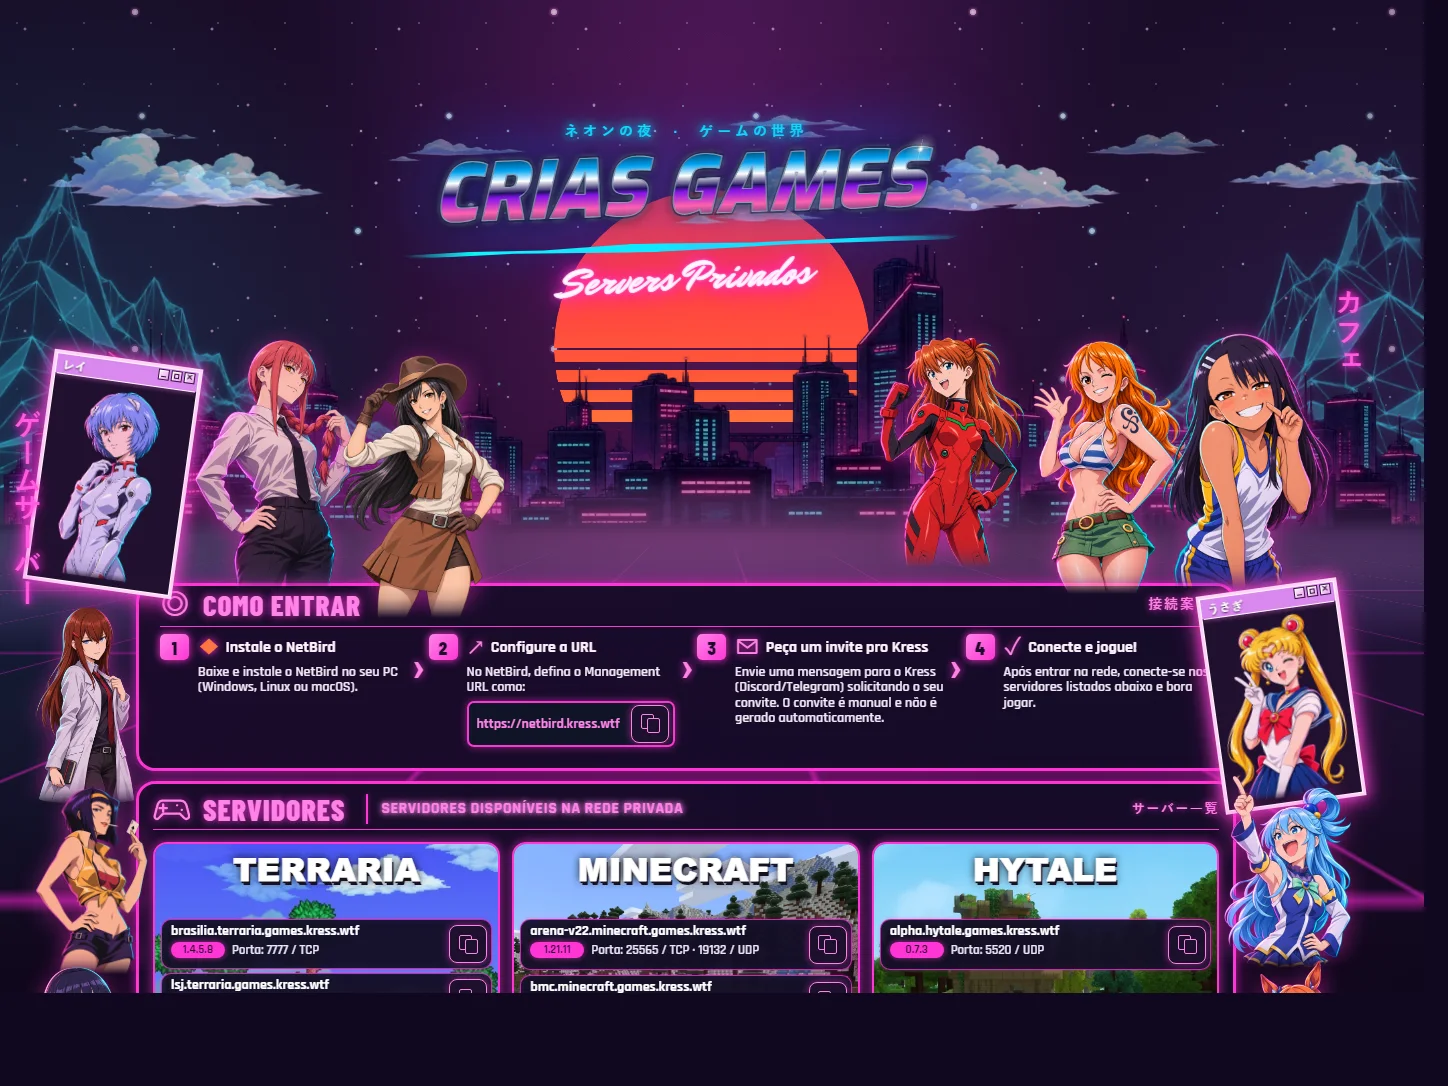
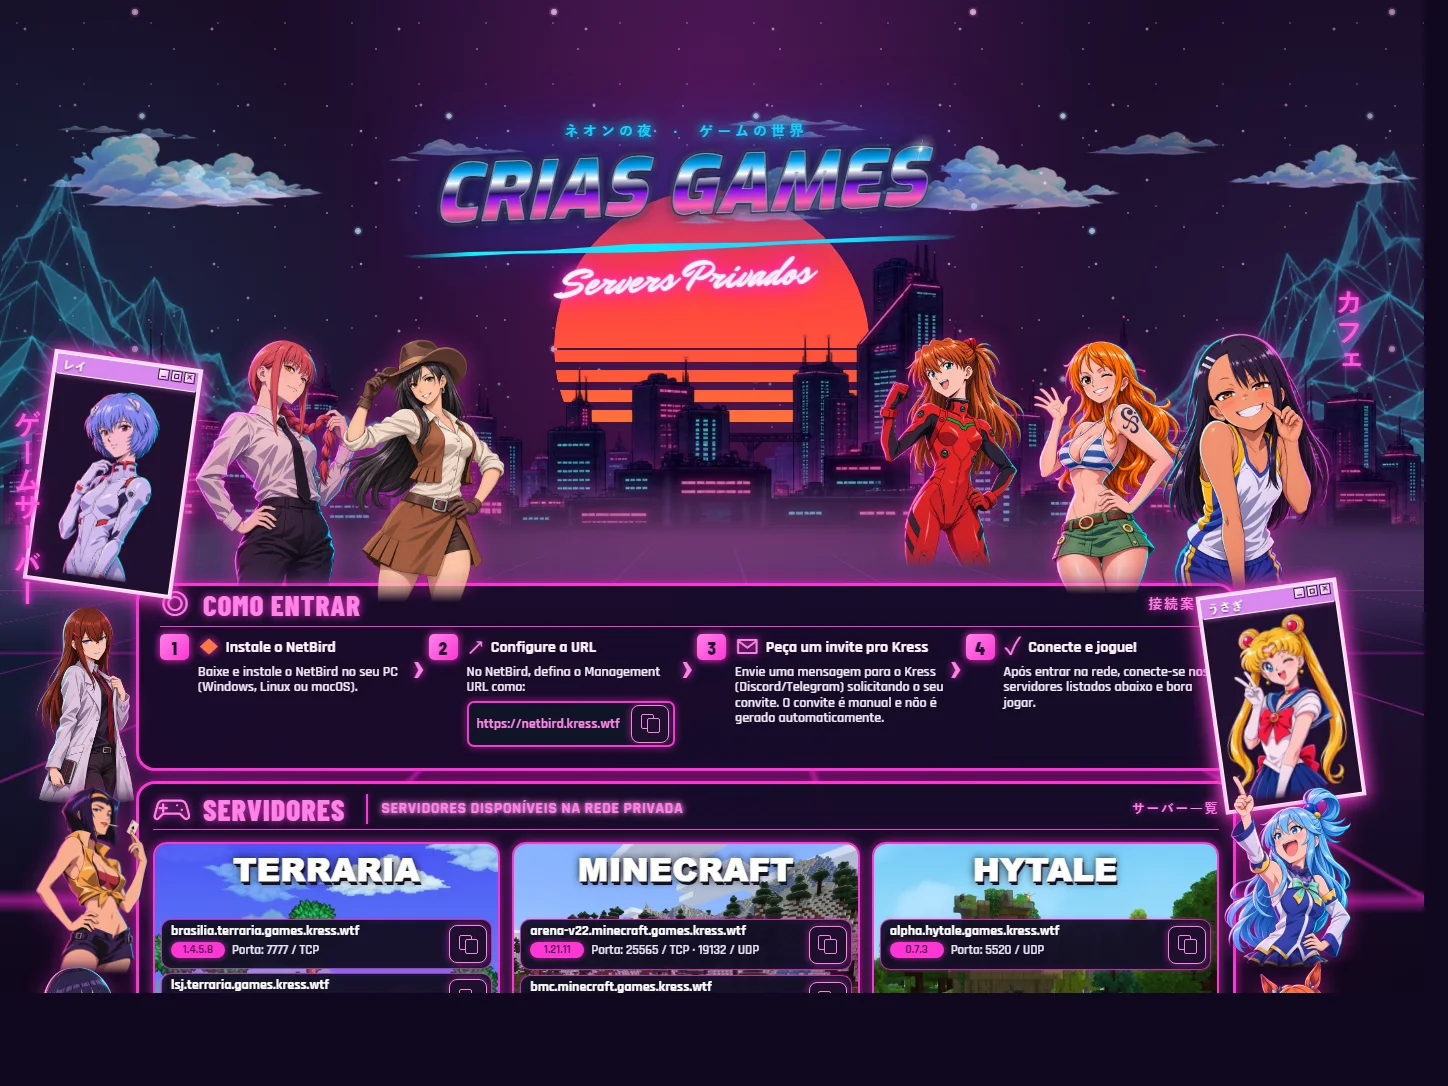
Raise Tifa 16px in desktop collage

Changed region(s): [[0.2175, 0.3039, 0.3729, 0.5773]]

diff --git a/src/assets/site.css b/src/assets/site.css
@@ -147,7 +147,7 @@ html.portrait-press-active,html.portrait-press-active * { user-select:none!impor
 .statue--right img { transform:scaleX(-1); }
 .character--rei { left:38px; top:158px; width:150px; height:232px; }
 .character--makima { left:14%; top:133px; width:clamp(205px,15vw,217px); }
-.character--tifa { left:calc(26% - 46px); top:121px; width:220px; }
+.character--tifa { left:calc(26% - 46px); top:105px; width:220px; }
 .character--asuka { right:25%; top:133px; width:clamp(185px,13.75vw,199px); }
 .character--nami { right:13%; top:138px; width:clamp(200px,15vw,217px); }
 .character--nagatoro { right:2.8%; top:133px; width:clamp(205px,15vw,217px); }

diff --git a/docs/assets.md b/docs/assets.md
@@ -10,7 +10,7 @@ The mockup and `docs/mockup-reference.md` guided character traits, palette and c
 | --- | --- | --- | --- |
 | Rei Ayanami | `rei-1.webp` (`rei.webp` retained) | ImageGen `exec-67ca324e`; pale blue bob, red eyes, white full-coverage plugsuit; generated from Rei's reference crop. | Transparent PNG master and WebP, 1024 × 1536; CSS-built tilted window and separate controls. |
 | Makima | `makima-3.webp` (`makima-2.webp`, `makima-1.webp`, `makima.webp` retained) | ImageGen `exec-f5504235`; copper-red braid, gold eyes, shirt and tie, expressive hand-on-hip pose; generated from Makima's reference crop. | Lossless WebP, 1280 × 1920, ImageMagick-padded from `makima-2.png`; independent portrait. |
-| Tifa Lockhart | `tifa-9.webp` (`tifa-8.webp` and all earlier art retained) | ImageGen `exec-a67bd35c`, refined from the cowgirl candidate into a larger hat-tip pose, cropped just above the knees. Nibelheim outfit: hat, ivory blouse, brown vest and skirt, dark shorts and gloves. See [`character-hand-revisions.md`](character-hand-revisions.md). | Transparent PNG master and WebP, 2560 × 3840; generated at 1024 × 1536, enlarged 2× with Lanczos, then given 256px side and 384px top/bottom transparent margins. Now displayed 10% larger and 12px lower. |
+| Tifa Lockhart | `tifa-9.webp` (`tifa-8.webp` and all earlier art retained) | ImageGen `exec-a67bd35c`, refined from the cowgirl candidate into a larger hat-tip pose, cropped just above the knees. Nibelheim outfit: hat, ivory blouse, brown vest and skirt, dark shorts and gloves. See [`character-hand-revisions.md`](character-hand-revisions.md). | Transparent PNG master and WebP, 2560 × 3840; generated at 1024 × 1536, enlarged 2× with Lanczos, then given 256px side and 384px top/bottom transparent margins. Now displayed 10% larger and 16px higher than the previous layout. |
 | Asuka Langley | `asuka-4.webp` (`asuka-3.webp`, `asuka-2.webp`, `asuka-1.webp`, `asuka.webp` retained) | Current image `exec-bb38c2b9`; orange hair, blue eyes, red pilot suit and raised fist. Approved by the user; the preceding numbered variant is also retained. | Lossless WebP, 1280 × 1920, ImageMagick-padded from `asuka-3.png`; independent portrait. |
 | Nami | `nami-2.webp` (`nami-1.webp`, `nami.webp` retained) | ImageGen `exec-9eb8bd38`; orange hair, wink, spiral tattoo, blue-white top and lively wave; generated from Nami's reference crop. | Lossless WebP, 1280 × 1920, ImageMagick-padded from `nami-1.png`; independent portrait. |
 | Hayase Nagatoro | `nagatoro-4.webp` (`nagatoro-3.webp`, `nagatoro-2.webp`, `nagatoro-1.webp`, `nagatoro.webp` retained) | ImageGen `exec-2d36d485`; dark hair and clips, warm tan skin, playful grin, sports clothes and corrected raised hand. See [`character-hand-revisions.md`](character-hand-revisions.md). | Lossless WebP, 1280 × 1920, resized from the transparent `nagatoro-4.png` master; independent portrait. |

diff --git a/docs/review/visual-review.md b/docs/review/visual-review.md
@@ -205,6 +205,6 @@ Captured states: [idle page at 1448](screenshots/layers-idle-1448-2026-11-10.web
 
 The generated anime-cumulus artwork was cropped with ImageMagick into a 1024 × 512, 4 × 4 transparent sprite sheet. A 14px horizontal alpha feather on each cell removes the hard crop line where the source art touched tile edges. The cloud container now reaches the horizon so sprites do not get chopped at the earlier city-height boundary; the higher-z skyline still covers clouds where they cross buildings. The broken `near-3` sprite instance was removed, leaving 15 active clouds drifting left with staggered delays through far, middle and near parallax planes. The far sprites sit behind the mountains; faster sprites pass in front. The loop no longer pauses visibly before fading offscreen. On the software-rendered fallback, the clouds remain static.
 
-Both mountain halves use `top: clamp(128px, 13vh, 148px)`, with the left rotated `5deg` and the right `-5deg`; their lower outer corners anchor the rotation, with a controlled 16–20px outward offset filling the side corners. The active Tifa portrait is a transparent hat-to-above-knee cowgirl cutout. Its 2× enlarged image has generous transparent margins; the updated display is 10% larger and 12px lower while retaining its transparent clearance.
+Both mountain halves use `top: clamp(128px, 13vh, 148px)`, with the left rotated `5deg` and the right `-5deg`; their lower outer corners anchor the rotation, with a controlled 16–20px outward offset filling the side corners. The active Tifa portrait is a transparent hat-to-above-knee cowgirl cutout. Its 2× enlarged image has generous transparent margins; the updated display is 10% larger and 16px higher than the previous layout while retaining its transparent clearance.
 
 The [1448px upper-page capture](screenshots/tifa-clouds-1448-2026-11-10.webp) and [1920px full-page capture](screenshots/tifa-clouds-1920-2026-11-10.webp) show the above-knee Tifa crop, transparent breathing room, all active cloud layers and rotated mountain placement. The static browser renders include 15 cloud sprites, with the skyline over the clouds where their paths cross buildings. The site builds with all eight server records.

diff --git a/docs/character-hand-revisions.md b/docs/character-hand-revisions.md
@@ -6,7 +6,7 @@ All revisions use the built-in `image_gen` tool. The preceding numbered artwork 
 
 `tifa-8.webp` was the previous active image: a lossless 1280 × 1920 transparent canvas that preserves the fighter pose, outfit and framing, simplifies the shading into broader JRPG color planes, and redraws both hands. `tifa-7.webp` and all earlier artwork remain available. The first attempts, `tifa-4.png` (`exec-b8866872`) and `tifa-5.png` (`exec-de75476a`), lacked a clear thumb; `tifa-6.png` (`exec-65cab16a`) added it, and `tifa-7.png` (`exec-0d3187a8`) refined the linework and color. The CSS fade, glow and pointer reactions remain separate.
 
-The active `tifa-9.webp` is a transparent hat-to-above-knee cutout generated from the cowgirl version (`exec-a67bd35c`). The relaxed hat-tip and hand-on-belt pose keeps the Nibelheim hat, ivory blouse, brown vest and skirt visible. Its 1024 × 1536 source was enlarged 2× with Lanczos, then padded to 2560 × 3840 with transparent margins. The page displays it 10% larger and 12px lower; pointer motion, glow and lower fade remain CSS effects. The original fighter and full-body cowgirl variants remain in the asset archive.
+The active `tifa-9.webp` is a transparent hat-to-above-knee cutout generated from the cowgirl version (`exec-a67bd35c`). The relaxed hat-tip and hand-on-belt pose keeps the Nibelheim hat, ivory blouse, brown vest and skirt visible. Its 1024 × 1536 source was enlarged 2× with Lanczos, then padded to 2560 × 3840 with transparent margins. The page displays it 10% larger and 16px higher than the previous layout; pointer motion, glow and lower fade remain CSS effects. The original fighter and full-body cowgirl variants remain in the asset archive.
 
 The targeted hand edit used `tifa-5.png`, a temporary close-up of its hand, and the user-supplied reference. Its prompt was:
 

diff --git a/openspec/changes/build-mockup-faithful-site/tasks.md b/openspec/changes/build-mockup-faithful-site/tasks.md
@@ -127,5 +127,5 @@ Implement in dependency order. Read both persistent specs, both change specs, `d
 - [x] 8.50 Activate a clean transparent cowgirl Tifa cutout based on candidate 2, replacing the active fighter art. Frame the portrait from hat to just above the knees, improve the hat-tip/hand-on-belt pose, enlarge the master 2×, add transparent margins, and size the visible figure to match Asuka. Keep earlier art and inspect the desktop composition.
 - [x] 8.51 Feather the cloud sprite-sheet cell edges and raise near-layer clouds enough to keep the active silhouettes inside the sky container. Inspect all 15 active sprites for horizontal or vertical clipping at 1448px and 1920px.
 - [x] 8.52 Anchor the mountain rotations at the lower outer corners and shift both halves outward by `clamp(16px, 1.25vw, 20px)` to fill the side corners without a broad crop. Keep the approved `clamp(128px, 13vh, 148px)` top and inspect the valley at desktop widths.
-- [x] 8.54 Increase Tifa's displayed size about 10%, lower her 8–16px, and preserve the centered artwork bounds and transparent margin. Inspect against Asuka at 1448px and 1920px.
+- [x] 8.54 Increase Tifa's displayed size about 10%, then raise her 16px from that scaled placement; preserve the centered artwork bounds and transparent margin. Inspect against Asuka at 1448px and 1920px.
 - [x] 8.53 Extend the cloud container down to the horizon so sprites do not clip at the former city-height boundary; keep the skyline above every cloud layer and verify the animated and static desktop views.

diff --git a/openspec/changes/build-mockup-faithful-site/design.md b/openspec/changes/build-mockup-faithful-site/design.md
@@ -161,7 +161,7 @@ Keep the shared mountain layer at `top: clamp(128px, 13vh, 148px)` and rotate th
 
 ### 21. Refresh the active Tifa portrait
 
-Use `tifa-9.webp` as the active transparent cowgirl portrait. Frame Tifa from the Nibelheim hat to just above the knees in a relaxed hat-tip pose, with the blouse, vest, skirt and hand at her belt visible. Deliver a 2× enlarged, high-resolution master with generous transparent padding; increase its displayed size by about 10% and lower it 8–16px while preserving the portrait motion and lower fade. Keep the former fighter and full-body cowgirl candidates available.
+Use `tifa-9.webp` as the active transparent cowgirl portrait. Frame Tifa from the Nibelheim hat to just above the knees in a relaxed hat-tip pose, with the blouse, vest, skirt and hand at her belt visible. Deliver a 2× enlarged, high-resolution master with generous transparent padding; increase its displayed size by about 10% and raise it 16px from the previous scaled placement while preserving the portrait motion and lower fade. Keep the former fighter and full-body cowgirl candidates available.
 
 ### 19. Mouse focus and keyboard focus
 

diff --git a/openspec/specs/website-experience/spec.md b/openspec/specs/website-experience/spec.md
@@ -156,7 +156,7 @@ The site SHALL show the fourteen reference characters as separate recognizable i
 
 #### Scenario: Inspecting Tifa's replacement
 - **WHEN** the refreshed Tifa illustration is inspected on the desktop page
-- **THEN** she appears in the Nibelheim cowgirl outfit in a hat-tip pose, cropped just above the knees, with transparent padding, about 10% more display size and an 8–16px downward adjustment
+- **THEN** she appears in the Nibelheim cowgirl outfit in a hat-tip pose, cropped just above the knees, with transparent padding, about 10% more display size and a 16px upward adjustment from the previous scaled placement
 - **AND** the portrait preserves its interactions and previous numbered Tifa artwork remains available
 
 #### Scenario: Inspecting Nagatoro's replacement
